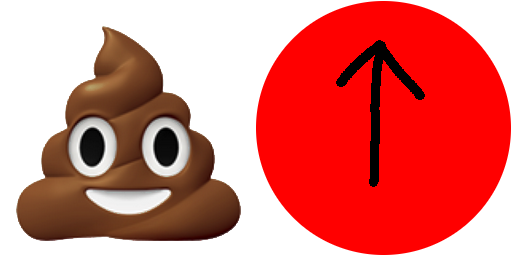
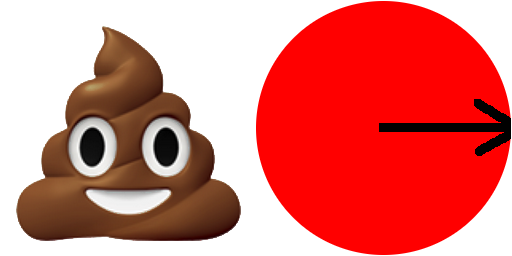
fixed texture bleeding. started mouse input

Changed region(s): [[0.6562, 0.1562, 1.0, 0.75]]

diff --git a/server/static/src/main.js b/server/static/src/main.js
@@ -1,4 +1,8 @@
-/*
+/* 
+ * CHANGES:
+ * 	changed entitiesDict to playersDict
+ * 	.remove() in remove player
+ * 
  * TODO:
  * 	semitransparent entities
  * 	text
@@ -7,31 +11,39 @@
  * 	fix annoying warning "XMLHttpRequest on the main thread ..."
  *
  *  seperate interpolation into sub file (ask micheal how he wants to organize it)
+ * 		put it in player.js
+ * 
+ * 	rotation only effect mainplayer
+ * 
+ * 	move movement calculations onto client side
+ * 	send rotation data as vector and use rotateToVec
+ * 	keep main player in center of screen using entity.setStatic() (will need to setScale)
+ * 	
+ * 	key/mouse bind system
  */
 
 var socket = io();
 
-import {glInit} from "./gl/glManager.js"
-import {setCamera, moveCamera} from "./gl/camera.js"//tmp
-import {Entity} from "./entity.js"//tmp
-import {texPoop, texCircle} from "./gl/texture.js"//tmp
+import {glInit, canvas} from "./gl/glManager.js"
+import {setCamera, moveCamera} from "./gl/camera.js"
+import {Entity} from "./entity.js"
+import {texPoop, texCircle} from "./gl/texture.js"
 
 function main() {
 	glInit();
-	//code to run on window load
-
-	//
 }
 
-var entitiesDict = {};
+var playersDict = {};
 var localData;
 var serverData;
 export function loaded() {
 	setCamera(0, 0);
-
-	//code to run once textures, shaders, rest of webgl stuff has finished loading
-
-	//
+	
+	//mouse stuff
+	canvas.addEventListener("mousemove", onMouseMove);
+	canvas.addEventListener("mousedown", onMouseDown);
+	canvas.addEventListener("mouseup", onMouseUp);
+	
 	//tell server new player has connected
 	socket.emit('new player');
 
@@ -41,21 +53,22 @@ export function loaded() {
 	socket.on('update local log', function(players, id) {
 	  localData = players;
 		// add new entity
-		entitiesDict[id] = new Entity();
+		playersDict[id] = new Entity();
 
 		// if client is missing any entites add them
 		for(var id in players) {
-			if (!(id in entitiesDict)) {
-				entitiesDict[id] = new Entity();
-				entitiesDict[id].setTexture(texPoop); // change others texture
+			if (!(id in playersDict)) {
+				playersDict[id] = new Entity();
+				playersDict[id].setTexture(texCircle); // change others texture
 			}
 		}
-		entitiesDict[id].setTexture(texPoop); // change main player texture
+		playersDict[id].setTexture(texCircle); // change main player texture
 	});
 
 	socket.on('remove player', function(data) {
 		delete localData[data];
-		delete entitiesDict[data];
+		playersDict[data].remove();
+		delete playersDict[data];
 	});
 
 	// stores the data that was transmitted by the server
@@ -84,8 +97,8 @@ function moveTo(p_id) {
   }
 
 	// draw sub frames of movement
-	entitiesDict[p_id].translateTo(localData[p_id].x_pos_player * 0.1,localData[p_id].y_pos_player * 0.1);
-	entitiesDict[p_id].sendDataToGPU();
+	playersDict[p_id].translateTo(localData[p_id].x_pos_player * 0.1,localData[p_id].y_pos_player * 0.1);
+	playersDict[p_id].sendDataToGPU();
 
 }
 
@@ -95,13 +108,9 @@ function loop() {
 	const t = tnow - told;
 	told = tnow;
 
-	//game logic loop (runs 60 times a second)
-
-	//
-
-	// draw all entities atleast once every 60th of a second
-	for (var id in entitiesDict) {
-    var ent = entitiesDict[id];
+	// draw all entities atleast once every 60th of a second (shouldn't be needed as moveTo should set the changes)
+	for (var id in playersDict) {
+    var ent = playersDict[id];
 		ent.translateTo(localData[id].x_pos_player * 0.1,localData[id].y_pos_player * 0.1);
 		ent.sendDataToGPU();
   }
@@ -115,7 +124,24 @@ function loop() {
       moveTo(id);
     }
   }
-
 }
 
 window.onload = main;
+
+function onMouseMove(evt) {
+	const rect = canvas.getBoundingClientRect();
+	const x = evt.clientX - rect.left - 320;
+	const y = rect.top + 240 - evt.clientY;
+	//TODO only effect mainPlayer
+	for (var id in playersDict) {
+    var ent = playersDict[id];
+		ent.rotateToVec(x, y);
+		ent.sendDataToGPU();
+  }
+}
+
+function onMouseDown(evt) {
+}
+
+function onMouseUp(evt) {
+}

diff --git a/server/static/src/gl/texture.js b/server/static/src/gl/texture.js
@@ -21,8 +21,8 @@ export function textureLoaded() {
 //
 export function generateSubTextures() {
 	//tmp
-		texPoop = textureAtlase.getTexture(0, 0, 255, 256);
-		texCircle = textureAtlase.getTexture(256, 0, 256, 256);
+		texPoop = textureAtlase.getTexture(0, 0, 254, 256);
+		texCircle = textureAtlase.getTexture(255, 0, 256, 256);
 	//
 }
 
@@ -65,11 +65,10 @@ export class TextureAtlas {
 		gl.texImage2D(gl.TEXTURE_2D, 0, gl.RGBA, image.width, 
 			image.height, 0, gl.RGBA, gl.UNSIGNED_BYTE, image);
 		
-		//TODO find best settings
 		gl.texParameteri(gl.TEXTURE_2D, gl.TEXTURE_WRAP_S, gl.CLAMP_TO_EDGE);
 		gl.texParameteri(gl.TEXTURE_2D, gl.TEXTURE_WRAP_T, gl.CLAMP_TO_EDGE);
-		gl.texParameteri(gl.TEXTURE_2D, gl.TEXTURE_MIN_FILTER, gl.LINEAR); //gl.NEAREST ???
-		gl.texParameteri(gl.TEXTURE_2D, gl.TEXTURE_MAG_FILTER, gl.LINEAR); //gl.NEAREST ???
+		gl.texParameteri(gl.TEXTURE_2D, gl.TEXTURE_MIN_FILTER, gl.NEAREST); 
+		gl.texParameteri(gl.TEXTURE_2D, gl.TEXTURE_MAG_FILTER, gl.NEAREST);
 		
 		mainShader.setUniformUInt("textures" + this.texSlot, this.texSlot);
 		

diff --git a/server/static/src/entity.js b/server/static/src/entity.js
@@ -322,6 +322,7 @@ export class Entity {
 	 * NOTE: e.sendDataToGPU() must be called to update what is seen on screen.
 	 */
 	rotateToVec(x, y) {
+		if (x == 0 && y == 0) return;
 		const h = Math.sqrt(x*x + y*y);
 		this.trig[SIN] = y/h;
 		this.trig[COS] = x/h;
@@ -335,6 +336,7 @@ export class Entity {
 	 * NOTE: e.sendDataToGPU() must be called to update what is seen on screen.
 	 */
 	rotateVec(x, y) {
+		if (x == 0 && y == 0) return;
 		const h = Math.sqrt(x*x + y*y);
 		const s = y/h;
 		const c = x/h;

diff --git a/server/static/src/gl/glManager.js b/server/static/src/gl/glManager.js
@@ -4,9 +4,10 @@ import {initVertexArray} from "./vertexarray.js"
 import {startLoading} from "./loading.js"
 
 export var gl;
+export var canvas;
 
 export function glInit() {
-	const canvas = document.querySelector("#glCanvas");
+	canvas = document.querySelector("#glCanvas");
 	// Initialize the GL context
 	gl = canvas.getContext("webgl2");
 
